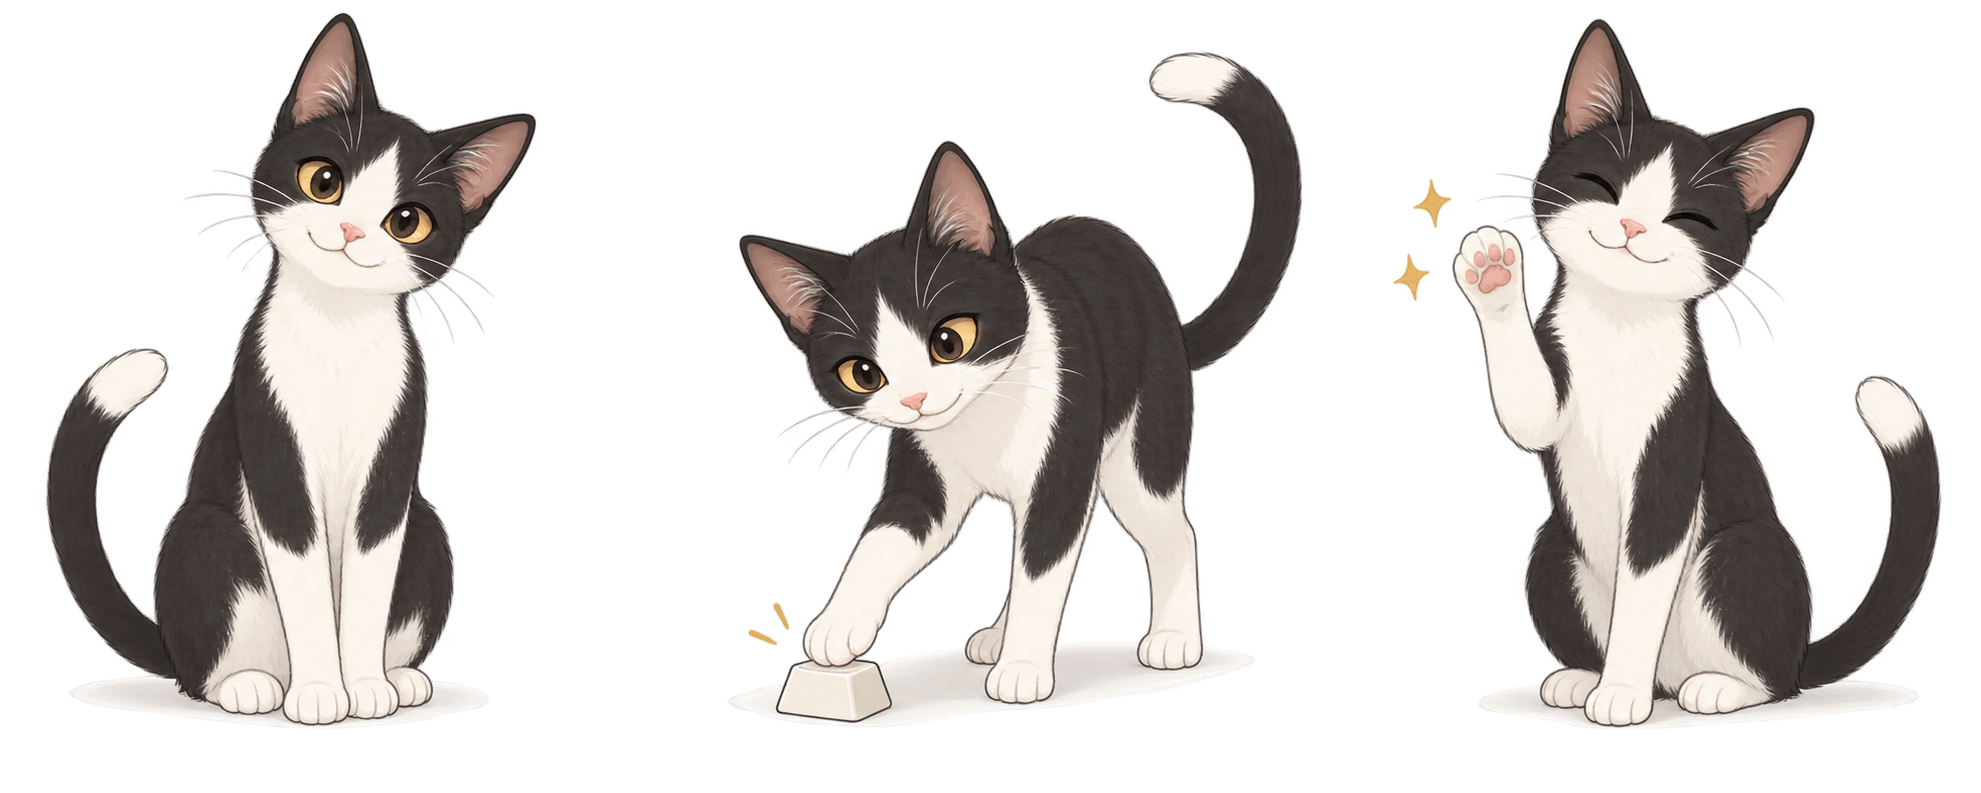
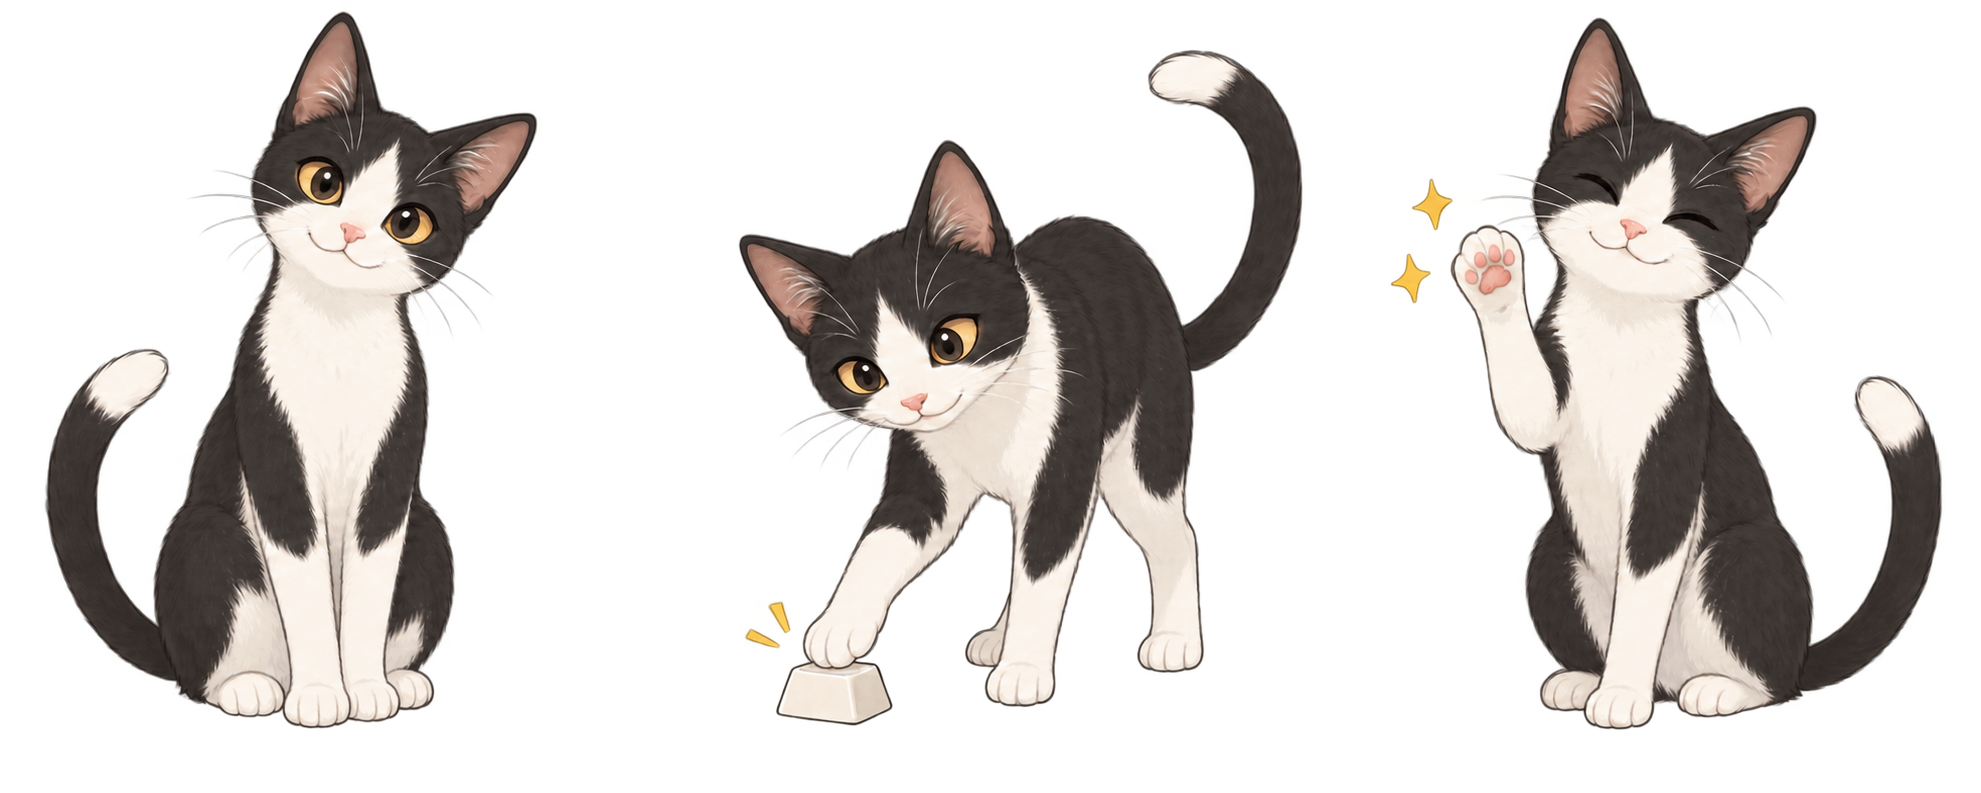
Fix companion artwork and simplify idle activity to reading

diff --git a/src/styles.css b/src/styles.css
@@ -752,13 +752,10 @@ input:focus-visible {
 .companion-choice[aria-pressed=true] .companion-selected { color: var(--green); background: var(--green-light); }
 .pet-sprite { position: relative; display: inline-block; flex: none; vertical-align: middle; width: var(--pet-size, 128px); }
 .companion-frame { position: relative; display: block; width: 100%; aspect-ratio: 5 / 6; overflow: hidden; transform-origin: 50% 85%; }
-.companion-frame img { position: absolute; display: block; height: 100%; width: 300%; max-width: none; left: calc(var(--pose) * -100%); mix-blend-mode: multiply; user-select: none; }
+.companion-frame img { position: absolute; display: block; height: 100%; width: 300%; max-width: none; left: calc(var(--pose) * -100%); user-select: none; }
 .companion-accessory { position: absolute; right: -4%; bottom: 5%; width: 30%; border-radius: 50%; background: #fffaf0; box-shadow: 0 2px 8px #66583418; }
 .companion-accessory svg { display: block; width: 100%; }
 .pet-sprite[data-stage="3"] .companion-accessory { background: #e8f1df; }
-.pet-sprite[data-motion="idle"] .companion-frame { animation: companion-breathe 4s ease-in-out infinite; }
-.pet-sprite[data-motion="typing"] .companion-frame { animation: companion-tap .26s ease-in-out infinite; }
-.pet-sprite[data-motion="cheer"] .companion-frame { animation: companion-cheer .65s ease-in-out 2; }
 .companion-choice > strong { margin-top: 6px; font-size: 18px; }
 .companion-intro { color: var(--muted); font-size: 12px; margin: 7px 0 14px; line-height: 1.6; }
 .companion-card-stat { color: #568063; font-size: 12px; }
@@ -779,9 +776,6 @@ input:focus-visible {
 .result-companion .pet-sprite { --pet-size: 130px; }
 .result-companion p { margin: 0; color: var(--green); font-size: 17px; font-weight: 650; }
 .result-companion p > span { display: block; color: var(--muted); font-size: 12px; font-weight: 400; margin-top: 7px; }
-@keyframes companion-breathe { 0%,100% { transform: translateY(0); } 50% { transform: translateY(-2px) scale(1.015); } }
-@keyframes companion-tap { 0%,100% { transform: rotate(-2deg); } 50% { transform: rotate(3deg) translateY(2px); } }
-@keyframes companion-cheer { 0%,100% { transform: translateY(0); } 40% { transform: translateY(-7px) rotate(-3deg); } 70% { transform: translateY(-2px) rotate(3deg); } }
 @media (max-width: 780px) {
   .companion-home { padding: 20px; margin-bottom: 36px; }
   .companion-heading { flex-direction: column; align-items: flex-start; gap: 12px; }
@@ -816,27 +810,18 @@ input:focus-visible {
 .pet-side .companion-bubble { max-width: 120px; font-size: 12px; }
 .pet-free-time { display: grid; grid-template-columns: 100px minmax(0, 1fr); align-items: center; column-gap: 8px; }
 .pet-activity-picture { position: relative; width: 100%; grid-row: span 2; }
-.pet-activity-frame { position: relative; display: block; width: 100%; aspect-ratio: 5 / 6; overflow: hidden; transform-origin: center bottom; }
-.pet-activity-frame img { position: absolute; width: 300%; height: 100%; max-width: none; left: 0; user-select: none; }
-.pet-free-time[data-activity=workout] .pet-activity-frame img { left: -100%; }
-.pet-free-time[data-activity=workout][data-animate=true] .pet-activity-frame img { animation: pet-press-frames 2.4s step-end infinite; }
-.pet-free-time[data-activity=workout][data-animate=true] .pet-activity-frame { animation: pet-press-bob 2.4s ease-in-out infinite; }
-.pet-book-cover-label { position: absolute; left: 58%; top: 43%; width: 23%; color: #fff8d6; font-size: clamp(4px, .43vw, 8px); line-height: 1.5; transform: rotate(-14deg); }
-.pet-activity-picture[data-pet=tuxedo] .pet-book-cover-label { left: 58%; top: 48%; transform: rotate(-8deg); }
-.pet-turning-page { position: absolute; left: 54%; top: 35%; width: 27%; height: 16%; background: #fff7db; border: 1px solid #d9cbaa; border-radius: 2px 8px 3px 2px; transform-origin: left bottom; opacity: 0; pointer-events: none; }
-.pet-activity-picture[data-pet=tuxedo] .pet-turning-page { top: 40%; }
-.pet-free-time[data-animate=true] .pet-turning-page.is-turning { animation: pet-page-turn .85s ease-in-out both; }
+.pet-activity-frame { position: relative; display: block; width: 100%; aspect-ratio: 3 / 4; overflow: hidden; }
+.pet-activity-frame img { position: absolute; width: 400%; height: 100%; max-width: none; left: calc(var(--book) * -100%); user-select: none; }
 .pet-activity-copy { min-width: 0; }
 .pet-activity-label { display: block; color: #8b917d; font-size: 10px; letter-spacing: .08em; margin: 2px 0 6px; }
 .pet-activity-copy strong { display: block; font-size: 12px; line-height: 1.6; font-weight: 600; color: #53634c; overflow-wrap: anywhere; }
 .pet-activity-copy p { color: var(--muted); font-size: 11px; line-height: 1.7; margin: 6px 0; }
+.pet-free-time[data-animate=true] .pet-activity-copy p { animation: pet-reading-fade .3s ease-out; }
+@keyframes pet-reading-fade { from { opacity: .35; } to { opacity: 1; } }
 .pet-activity-copy small { color: #959a8e; font-size: 10px; }
 .pet-activity-actions { display: flex; justify-content: center; flex-wrap: wrap; gap: 3px 10px; margin-top: 6px; }
 .pet-activity-actions button { border: 0; padding: 7px 2px; background: transparent; color: #61755c; font: inherit; font-size: 11px; text-decoration: underline; text-underline-offset: 4px; cursor: pointer; }
 .pet-activity-actions button:hover { color: var(--green); }
-@keyframes pet-page-turn { 0% { opacity: 0; transform: perspective(220px) rotateY(0deg) rotate(-10deg); } 15% { opacity: 1; } 85% { opacity: 1; } 100% { opacity: 0; transform: perspective(220px) rotateY(-170deg) rotate(-10deg); } }
-@keyframes pet-press-frames { 0%,100% { left: -100%; } 50% { left: -200%; } }
-@keyframes pet-press-bob { 0%,100% { transform: translateY(1px); } 50% { transform: translateY(-3px); } }
 @media (min-width: 1280px) {
   .companion-sides { display: contents; }
   .pet-side { position: absolute; top: 190px; width: clamp(140px, calc((100vw - 980px) / 2), 260px); }
@@ -866,7 +851,6 @@ input:focus-visible {
   .pet-activity-picture { grid-row: auto; }
   .pet-activity-actions { grid-column: 1 / -1; gap: 8px; margin-top: 0; }
   .pet-activity-actions button { min-height: 32px; font-size: 10px; }
-  .pet-book-cover-label { font-size: 3px; }
 }
 .free-next-panel { text-align: right; }
 .activity-card { margin: 24px 0; padding: 22px; border: 1px solid var(--line); border-radius: 16px; background: var(--card); min-width: 0; }

diff --git a/src/components/Companions.tsx b/src/components/Companions.tsx
@@ -2,12 +2,12 @@ import { useEffect, useRef, useState, type CSSProperties } from 'react'
 import { growthStage, PETS, type CompanionPreferences, type ActivePetId, type PetPose } from '../lib/companions'
 import golden from '../assets/companions/golden-retriever.png'
 import tuxedo from '../assets/companions/tuxedo-cat.png'
-import goldenActivities from '../assets/companions/golden-activities.png'
-import tuxedoActivities from '../assets/companions/tuxedo-activities.png'
+import goldenReading from '../assets/companions/golden-reading.png'
+import tuxedoReading from '../assets/companions/tuxedo-reading.png'
 import { PET_BOOKS } from '../lib/pet-books'
 
 const artwork = { golden, tuxedo }
-const activityArtwork = { golden: goldenActivities, tuxedo: tuxedoActivities }
+const readingArtwork = { golden: goldenReading, tuxedo: tuxedoReading }
 
 function useCompanionMotion(enabled: boolean) {
   const [reduced, setReduced] = useState(() => window.matchMedia?.('(prefers-reduced-motion: reduce)').matches ?? false)
@@ -22,49 +22,32 @@ function useCompanionMotion(enabled: boolean) {
 }
 
 function PetFreeTime({ petId, animate }: { petId: ActivePetId; animate: boolean }) {
-  const [activity, setActivity] = useState<'reading' | 'workout'>('reading')
   const [bookIndex, setBookIndex] = useState(0)
   const [page, setPage] = useState(0)
-  const [reps, setReps] = useState(0)
   const book = PET_BOOKS[petId][bookIndex]!
   const nextPage = () => setPage((value) => value + 1)
   useEffect(() => {
     if (!animate) return
     const timer = window.setInterval(() => {
       if (document.hidden) return
-      if (activity === 'reading') setPage((value) => value + 1)
-      else setReps((value) => value + 1)
-    }, activity === 'reading' ? 6000 : 2400)
-    return () => window.clearInterval(timer)
-  }, [activity, animate])
-  useEffect(() => {
-    if (!animate) return
-    const timer = window.setInterval(() => {
-      if (!document.hidden) setActivity((value) => value === 'reading' ? 'workout' : 'reading')
-    }, 36000)
+      setPage((value) => value + 1)
+    }, 6000)
     return () => window.clearInterval(timer)
   }, [animate])
   const preventBlur = (event: React.PointerEvent) => event.preventDefault()
-  return <div className="pet-free-time" data-activity={activity} data-animate={animate}>
+  return <div className="pet-free-time" data-animate={animate}>
     <div className="pet-activity-picture" data-pet={petId} aria-hidden="true">
-      <span className="pet-activity-frame"><img src={activityArtwork[petId]} alt="" draggable="false" /></span>
-      {activity === 'reading' && <>
-        <span className="pet-book-cover-label">{book.title}</span>
-        <span key={`${bookIndex}:${page}`} className={`pet-turning-page${page ? ' is-turning' : ''}`} />
-      </>}
+      <span className="pet-activity-frame" style={{ '--book': bookIndex } as CSSProperties}><img src={readingArtwork[petId]} alt="" draggable="false" /></span>
     </div>
     <div className="pet-activity-copy">
-      <span className="pet-activity-label">{activity === 'reading' ? '自习时间' : '爪爪健身房'}</span>
-      <strong>{activity === 'reading' ? `《${book.title}》` : petId === 'golden' ? '练好臂力，下次多捡一个球' : '举起小哑铃，轻松推倒烦恼'}</strong>
-      <p>{activity === 'reading' ? book.pages[page % book.pages.length] : '呼——举起来，再慢慢放下。'}</p>
-      <small>{activity === 'reading' ? `第 ${page % book.pages.length + 1} / ${book.pages.length} 页` : `已举 ${reps} 次 · 慢慢来`}</small>
+      <span className="pet-activity-label">自习时间</span>
+      <strong>《{book.title}》</strong>
+      <p key={`${bookIndex}:${page}`}>{book.pages[page % book.pages.length]}</p>
+      <small>第 {page % book.pages.length + 1} / {book.pages.length} 页</small>
     </div>
     <div className="pet-activity-actions">
-      {activity === 'reading' && <>
         <button type="button" onPointerDown={preventBlur} onClick={nextPage}>翻一页</button>
         <button type="button" onPointerDown={preventBlur} onClick={() => { setBookIndex((value) => (value + 1) % PET_BOOKS[petId].length); setPage(0) }}>换本书</button>
-      </>}
-      <button type="button" onPointerDown={preventBlur} onClick={() => setActivity((value) => value === 'reading' ? 'workout' : 'reading')}>{activity === 'reading' ? '去锻炼' : '去读书'}</button>
     </div>
   </div>
 }
@@ -127,7 +110,7 @@ export function CompanionHome({ preferences, points, ready, disabled, onChange }
     </div>
     <div className="companion-options">
       <label><input type="checkbox" checked={preferences.enabled} disabled={disabled} onChange={(event) => onChange({ ...preferences, enabled: event.target.checked })} />练习时显示伙伴</label>
-      <label><input type="checkbox" checked={preferences.animations} disabled={disabled} onChange={(event) => onChange({ ...preferences, animations: event.target.checked })} />伙伴小动作</label>
+      <label><input type="checkbox" checked={preferences.animations} disabled={disabled} onChange={(event) => onChange({ ...preferences, animations: event.target.checked })} />伙伴自动翻页</label>
       <span>30 成长解锁星星 · 150 成长解锁花环。四种评分奖励相同，隐藏伙伴也会成长。</span>
     </div>
   </section>

diff --git a/src/components/Companions.test.ts b/src/components/Companions.test.ts
@@ -29,7 +29,7 @@ it('keeps the dog left and cat right while the unselected animal reads its own b
   expect(container.querySelector('.pet-side--tuxedo')?.getAttribute('data-active')).toBe('true')
 })
 
-it('turns real pages and changes books without restarting when the learner types', () => {
+it('turns reading excerpts and changes books without restarting when the learner types', () => {
   render(); click('翻一页')
   expect(container.textContent).toContain('第 2 / 4 页')
   expect(container.textContent).toContain('重要的事先做')
@@ -37,21 +37,25 @@ it('turns real pages and changes books without restarting when the learner types
   expect(container.textContent).toContain('第 2 / 4 页')
   click('换本书')
   expect(container.textContent).toContain('原子喵习惯'); expect(container.textContent).toContain('第 1 / 4 页')
+  expect((container.querySelector('.pet-activity-frame') as HTMLElement).style.getPropertyValue('--book')).toBe('1')
   act(() => vi.advanceTimersByTime(6000))
   expect(container.textContent).toContain('第 2 / 4 页')
   // Pointer interaction should preserve focus in the typing field.
   const event = new Event('pointerdown', { bubbles: true, cancelable: true })
   container.querySelector('button')!.dispatchEvent(event)
   expect(event.defaultPrevented).toBe(true)
+  click('换本书'); click('换本书'); click('换本书')
+  expect(container.textContent).toContain('高效猫猫的七个习惯')
+  expect((container.querySelector('.pet-activity-frame') as HTMLElement).style.getPropertyValue('--book')).toBe('0')
 })
 
-it('switches to exercise with counted repetitions, then back to reading, and clears timers when hidden', () => {
+it('keeps reading and pauses the page timer in background, clearing it when companions are hidden', () => {
   render(); act(() => vi.advanceTimersByTime(36000))
-  expect(container.querySelector('.pet-free-time')?.getAttribute('data-activity')).toBe('workout')
-  act(() => vi.advanceTimersByTime(4800))
-  expect(container.textContent).toContain('已举 2 次')
-  click('去读书'); expect(container.textContent).toContain('翻一页')
-  click('去锻炼'); expect(container.textContent).toContain('爪爪健身房')
+  expect(container.textContent).toContain('第 3 / 4 页')
+  expect(container.textContent).not.toMatch(/锻炼|健身|已举/)
+  vi.spyOn(document, 'hidden', 'get').mockReturnValue(true)
+  act(() => vi.advanceTimersByTime(6000))
+  expect(container.textContent).toContain('第 3 / 4 页')
   render({ ...DEFAULT_COMPANION, enabled: false })
   expect(container.children).toHaveLength(0)
   expect(vi.getTimerCount()).toBe(0)
@@ -64,6 +68,6 @@ it.each(['setting', 'reduced-motion'])('pauses autonomous activity for %s while 
   act(() => vi.advanceTimersByTime(72000))
   expect(container.textContent).toContain('第 1 / 4 页')
   click('翻一页'); expect(container.textContent).toContain('第 2 / 4 页')
-  click('去锻炼'); act(() => vi.advanceTimersByTime(10000))
-  expect(container.textContent).toContain('已举 0 次')
+  act(() => vi.advanceTimersByTime(10000))
+  expect(container.textContent).toContain('第 2 / 4 页')
 })

diff --git a/design/companion-art-prompts.md b/design/companion-art-prompts.md
@@ -1,0 +1,20 @@
+# 宠物透明素材修订
+
+使用内置 imagegen 编辑与生成；参考原金毛、黑白猫角色稿。网站最终文件在 `src/assets/companions/`，阅读图从左到右对应四本书。
+
+## golden-retriever.png
+
+Edit target is the attached golden retriever three-pose sprite sheet. Preserve the exact character design, illustration style, three poses and left-to-right order (sitting, pressing keycap, high five). Output a clean genuinely TRANSPARENT RGBA PNG alpha sprite sheet, NO WHITE BACKGROUND, NO FLOOR, NO GROUND SHADOWS, no checkerboard painted into image, remove all white backdrop and gray floor remnants. Keep opaque cream fur intact. Three equal-width cells in ONE HORIZONTAL ROW, each character centered in its own cell with small clear margins, full body and tails not clipped. Each dog must have exactly four limbs total: high five has one raised forepaw, one resting forepaw, two hind feet; no fifth foot. Transparent gaps between all characters.
+
+## tuxedo-cat.png
+
+Edit target is the attached tuxedo cat three-pose sprite sheet. Preserve the exact black-white cat design, amber eyes, pink nose, white-tipped tail, illustration style, three poses and left-to-right order (sitting, pressing keycap, high five). Output clean genuinely TRANSPARENT RGBA PNG alpha, remove the white ground patches and all white fringes outside fur. NO WHITE BACKGROUND, NO FLOOR, NO GROUND SHADOWS, no checkerboard painted in. Preserve opaque white fur. Three equal-width cells in ONE HORIZONTAL ROW, full bodies centered with clear margins. Exactly four limbs per cat; raised forepaw replaces its resting paw rather than creating extra limbs.
+
+## golden-reading.png
+
+Reference is the approved golden retriever character sheet. Create a book-reading sprite sheet in this exact illustration style and same lean cute adult golden dog. Genuinely transparent RGBA PNG background, no backdrop, floor, shadows or checkerboard. FOUR equal-width cells in ONE HORIZONTAL ROW. Every cell contains SAME aligned full-body seated reading pose and same open book geometry, facing viewer, gaze down at pages. Strict anatomy: exactly TWO forepaws holding the book and TWO hind feet at base; no other hands/paws or front legs on ground. Four books, each a different cover color with clearly legible Chinese lettering actually PRINTED ON the outward-facing right front cover, integrated into the cover's perspective, never a floating text box or caption. Left-to-right covers and exact text: 1 sage green '如何赢得\n狗狗朋友'; 2 warm terracotta '原子汪习惯'; 3 muted blue '被猫猫讨厌\n的勇气'; 4 plum '深度嗅觉\n工作'. Each character fits completely within its cell, tail included. Book upper opening at 40% of cell height; lower edge at 60%. Keep head/feet at same height in all four cells. Elegant cream cover lettering, no extraneous typography or objects.
+
+## tuxedo-reading.png
+
+Reference is the approved tuxedo cat character sheet. Create a book-reading sprite sheet in this exact illustration style and same lean cute black-white cat with amber eyes and white-tipped tail. Genuinely transparent RGBA PNG background, no backdrop, floor, shadows or checkerboard. FOUR equal-width cells in ONE HORIZONTAL ROW. Every cell contains SAME aligned full-body seated reading pose and same open book geometry, facing viewer, gaze down at pages. Strict anatomy: exactly TWO forepaws holding the book and TWO hind feet at base, no other hands/paws or front legs on ground. Four books, different covers with clearly legible Chinese lettering actually PRINTED ON the outward-facing right front cover, integrated in its perspective, never a floating text box or caption. Left-to-right covers and exact text: 1 sage green '高效猫猫的\n七个习惯'; 2 terracotta '原子喵习惯'; 3 muted blue '如何停止内耗\n并开始晒太阳'; 4 plum '思考，\n快与喵'. Each cat fits completely within its cell including tail. Book upper opening at 40% of cell height; lower edge at 60%. Keep head/feet at same height in all four cells. Elegant cream cover lettering, no extraneous typography or objects.
+

diff --git a/design/README.md b/design/README.md
@@ -1,9 +1,9 @@
 # 日语敲敲设计
 
-已选用大金毛「麦麦」与黑白猫「点点」。角色稿分别为 golden-retriever-concept.png 和 tuxedo-cat-concept.png，每张从左到右为待机、打字、庆祝。网站素材放在 src/assets/companions/，用 CSS 切换姿态与播放小动作。
+已选用大金毛「麦麦」与黑白猫「点点」。最初角色稿分别为 golden-retriever-concept.png 和 tuxedo-cat-concept.png。网站采用 src/assets/companions/ 下清理过背景的透明素材，从左到右为待机、打字、庆祝，仅切换姿态，不做整图摇晃。
 
 早期十个候选方案见 animal-concepts.md，仅作设计存档。
 
-侧边活动素材为 src/assets/companions/golden-activities.png 与 tuxedo-activities.png，使用原角色稿生成，三个姿态分别为读书、哑铃下放、哑铃举起。翻页和锻炼由 CSS 动画实现；书名改编与页内原创短句在 src/lib/pet-books.ts。非选中伙伴的活动不产生学习记录或成长奖励。
+侧边待机仅保留阅读，素材为 src/assets/companions/golden-reading.png 与 tuxedo-reading.png。每张四个等宽格，对应 src/lib/pet-books.ts 中的四本书，书名直接绘在封面上。换书会切换封面图；翻页切换原创短句，支持手动操作与每六秒自动翻页。页面后台、关闭自动翻页或减少动态效果时暂停计时。当前不包含连续的爪子翻页动画，后续需制作逐帧素材或分层骨骼动画。阅读不产生学习记录或成长奖励。
 
 图标草案仍为「小木槌敲键帽」，见 branding/mallet-icon.svg，尚未替换网站图标。
